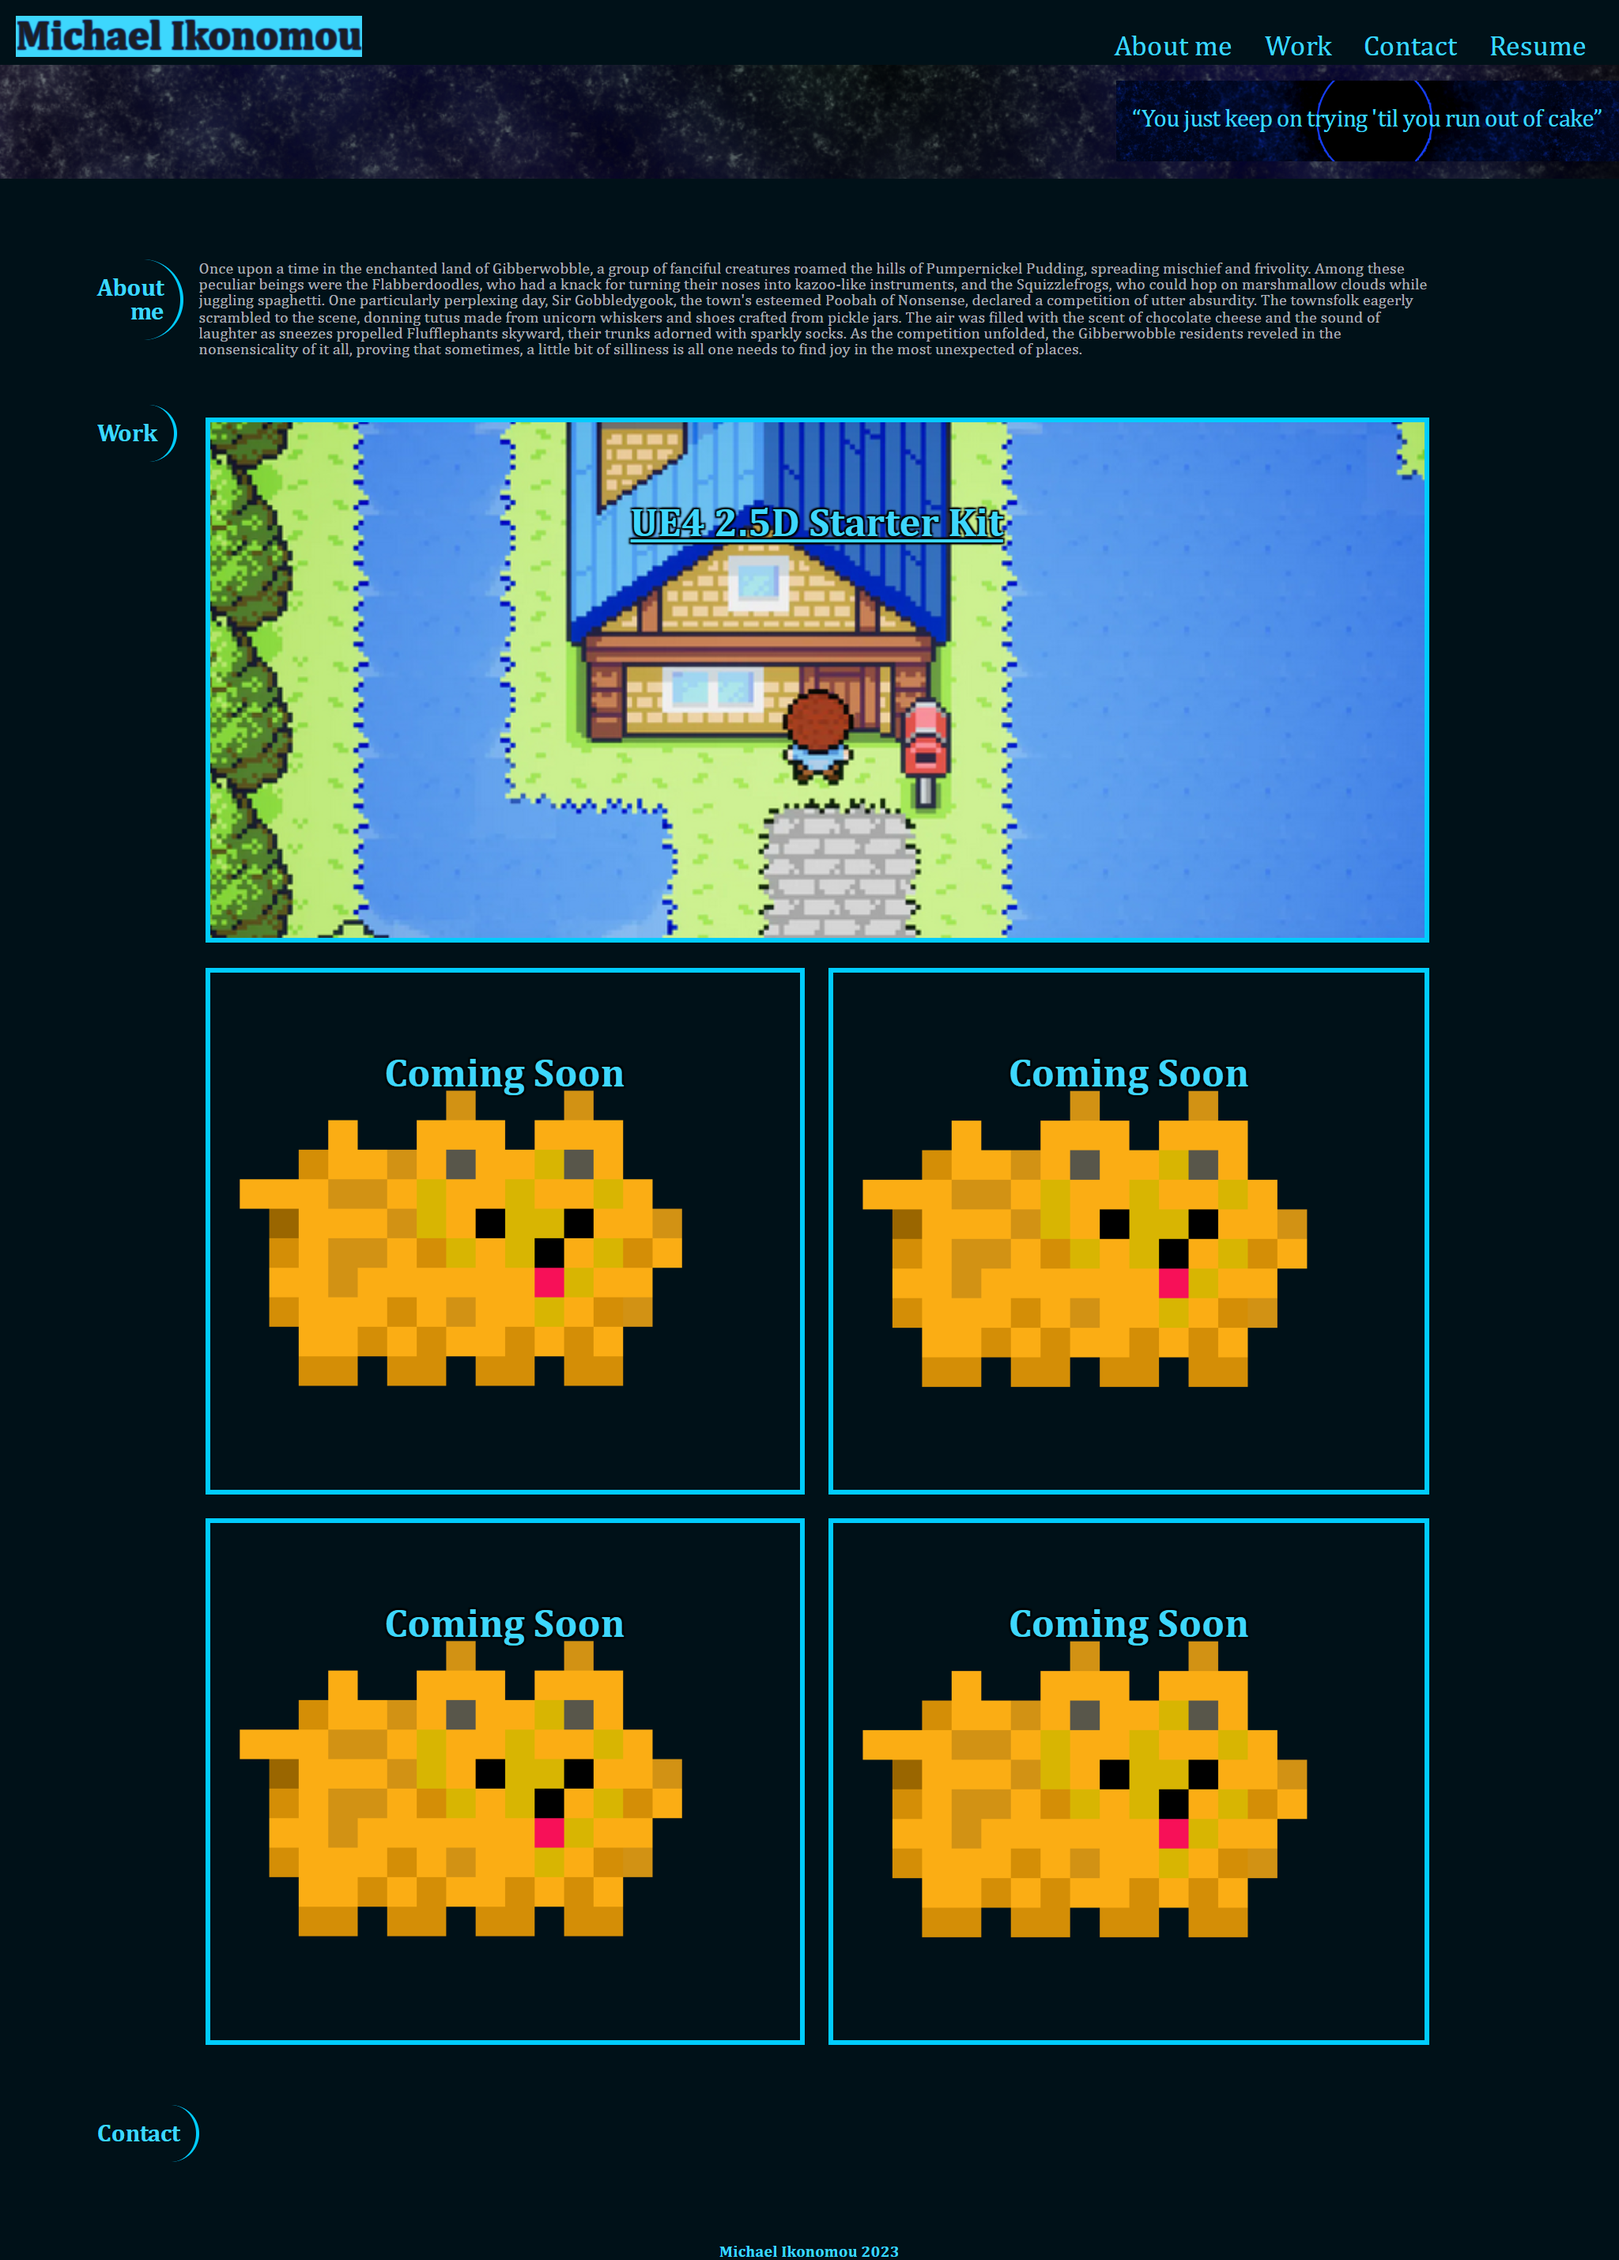
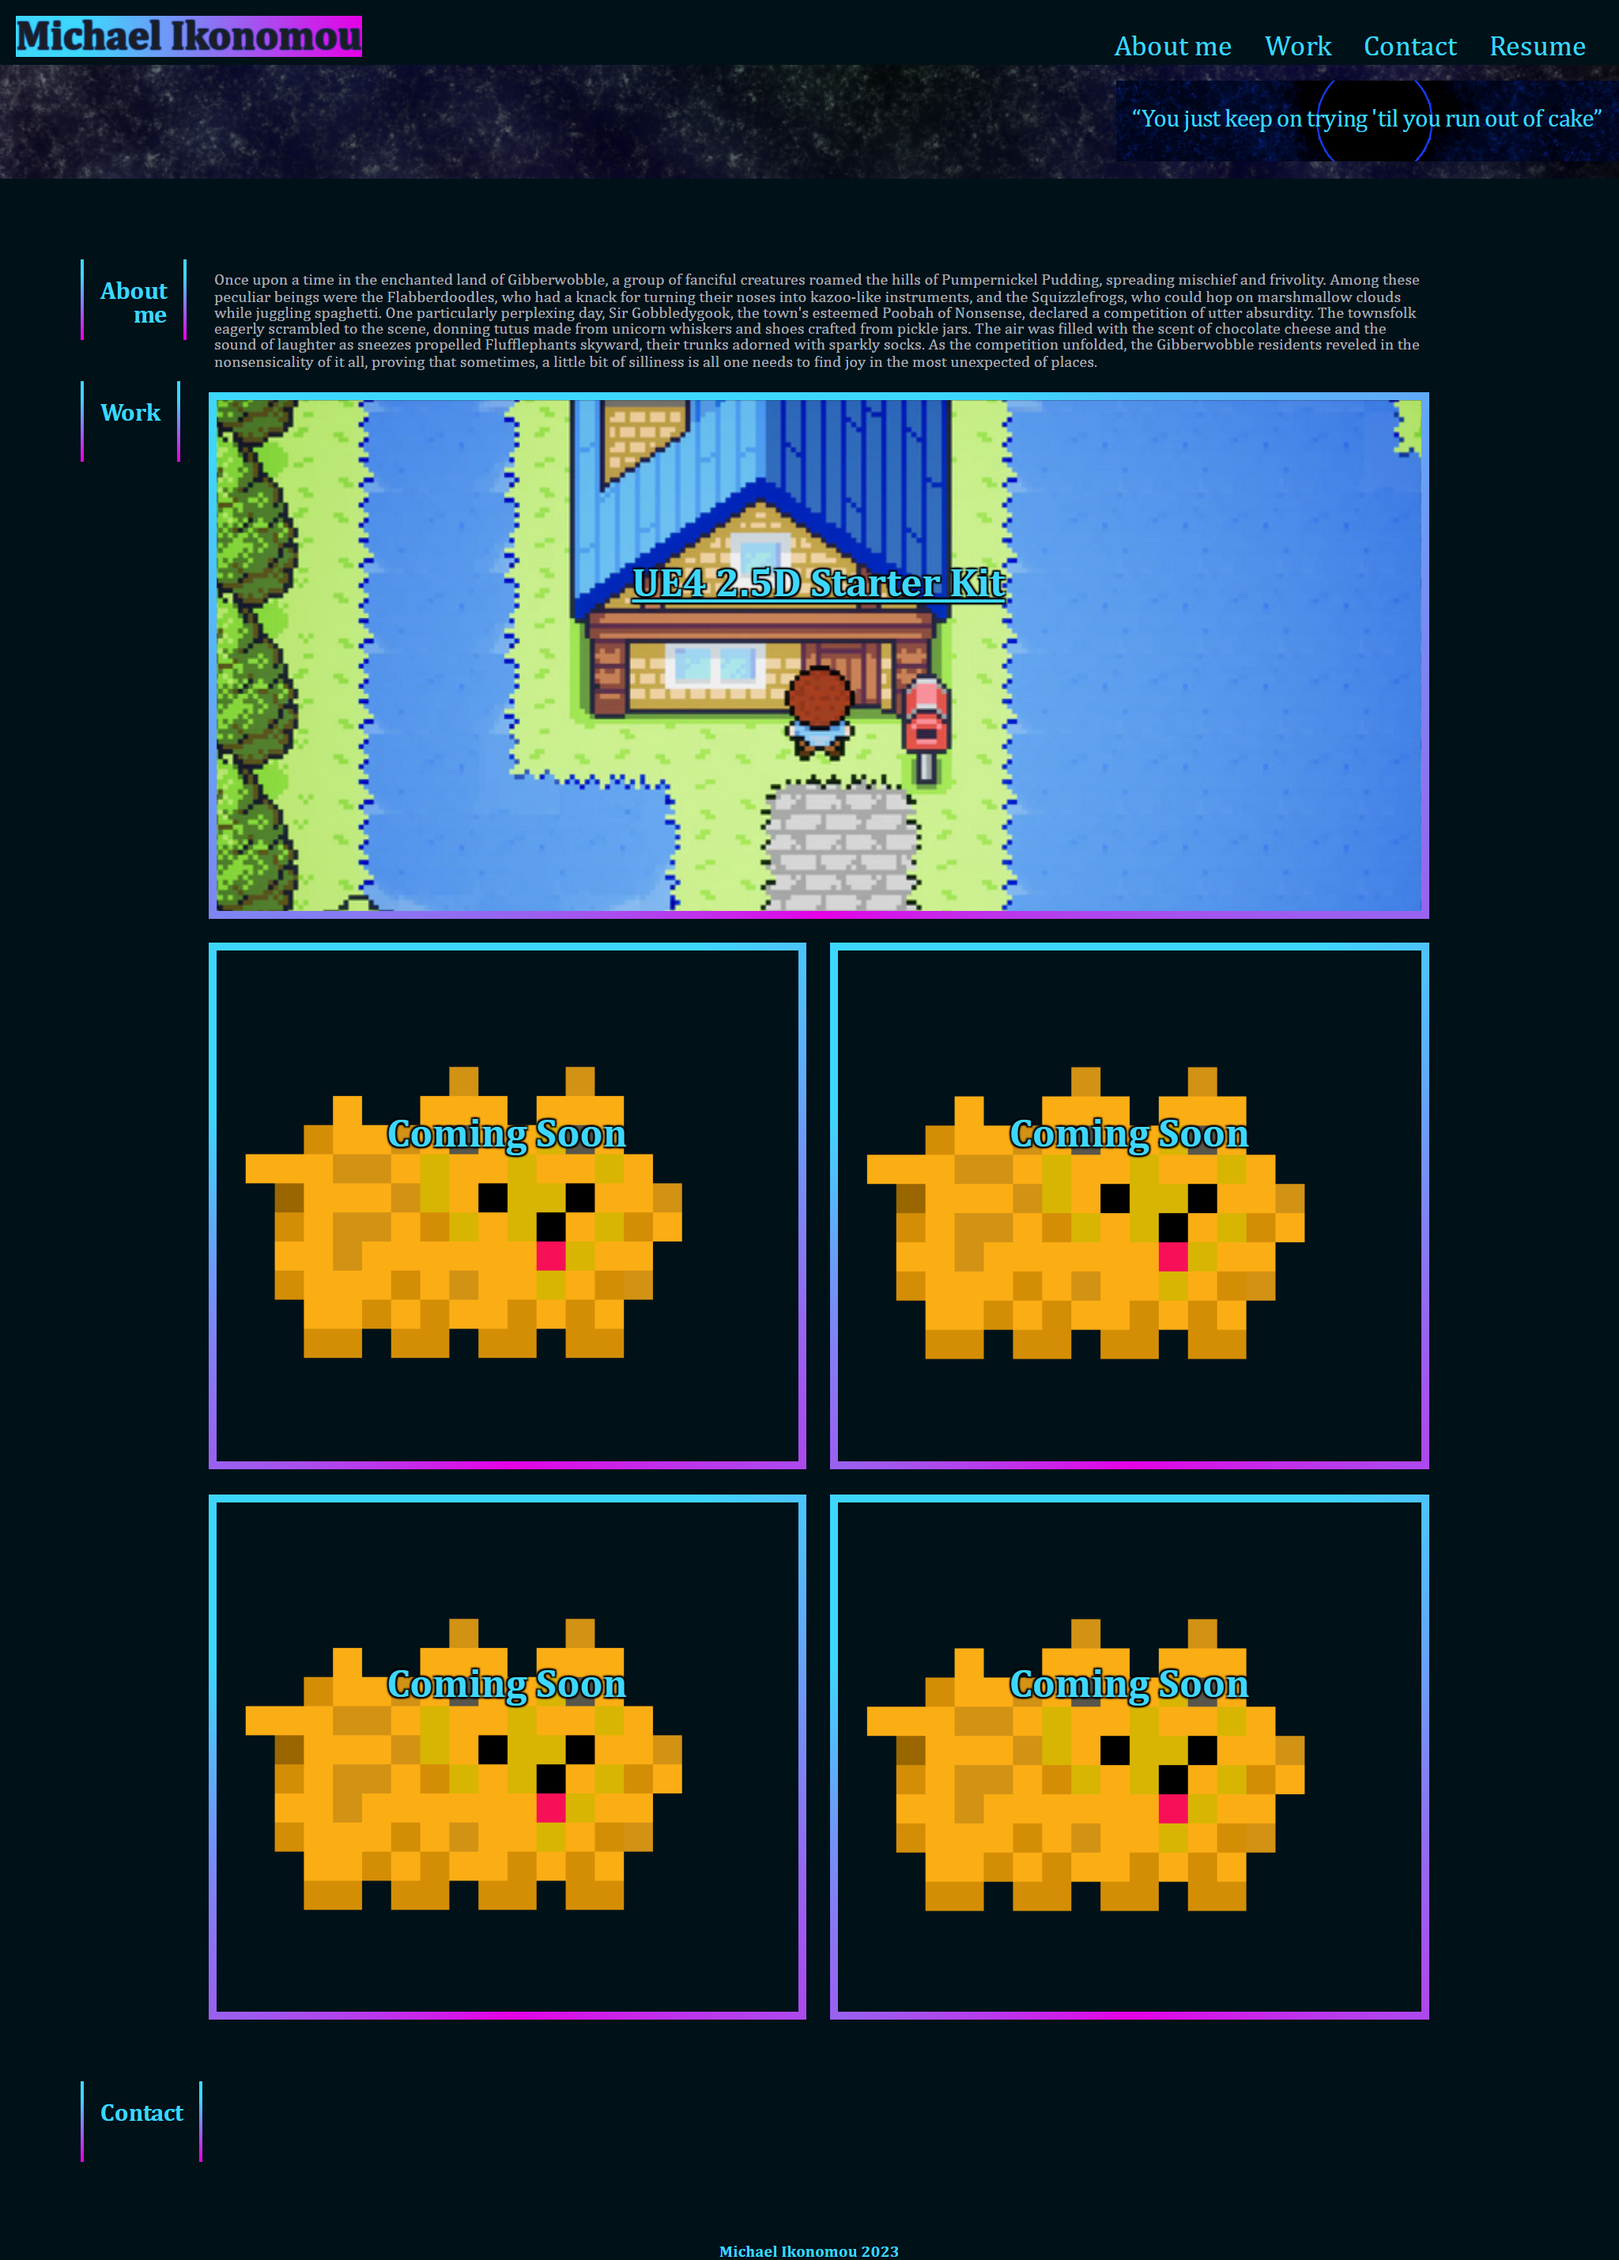
Finished gradients

Changed region(s): [[0.0625, 0.0934, 0.9062, 0.9031], [0.0625, 0.0, 0.2188, 0.0311], [0.0625, 0.9342, 0.125, 0.9654]]

diff --git a/assets/css/style.css b/assets/css/style.css
@@ -23,16 +23,18 @@ header {
     height: 4vw;
     padding: 1vw;
 }
-/* Set header1 color of text and background, relative font size, and a shadow to make it easier to look at. */
+/* Set header1 color of text and background, relative font size, and a shadow to make it easier to look at. Add a linear gradient to the background for maximum fancy */
 h1 {
     font-size: 2.5rem;
     color: var(--Dark-slate);
-    background-color: var(--easy-cyan);
     text-shadow:
     var(--shadow-negative) var(--shadow-negative) .075vw var(--blue-popsicle),  
     var(--shadow-positive) var(--shadow-negative) .075vw var(--blue-popsicle),
     var(--shadow-negative) var(--shadow-positive) .075vw var(--blue-popsicle),
     var(--shadow-positive) var(--shadow-positive) .075vw var(--blue-popsicle);
+    background-image: linear-gradient(to right, var(--easy-cyan)20%, var(--magenta-border));
+    padding-top: auto;
+    padding-bottom: auto;
 }
 
 #navbar > nav {
@@ -74,13 +76,13 @@ main {
 }
 
 .section-header {
-    padding: 0 0vw 1vw 4vw;
+    padding: 0 0 1vw 4vw;
 }
 
 article {
     display: inherit;
     flex-direction: row;
-    justify-content: space-around;
+    justify-content: flex-start;
 }
 
 article section {
@@ -90,8 +92,9 @@ article section {
 h3 {
     color: var(--easy-cyan);
     font-size: 1.5em;
-    border-right: .2vw solid var(--highlighted-cyan);
-    border-radius: 3vw;
+    border: .2vw solid transparent;
+    border-image: linear-gradient(to bottom, var(--easy-cyan)20%, var(--magenta-border)) 1 100%;
+    height: 5vw;
     padding: 1vw;
     margin-right: 1vw;
     text-align: right;
@@ -100,7 +103,7 @@ h3 {
 article p {
     color: var(--light-text);
     padding: 0 10vw 0 0vw;
-    margin-bottom: 3vw;
+    margin: .75vw;
 }
 
 #work {
@@ -118,40 +121,26 @@ article p {
 
 }
 
-.card-gradient {
-    display: flex;
-    background-clip: padding-box;
-    background: linear-gradient(var(--highlighted-cyan, var(--Dark-slate)));
-    height: 32.5vw;
-    flex-basis: calc(50% - 1.5vw);
-    margin: .75vw;
-    position: relative;
-    padding: 2vw;
-}
-
-.card-gradient:first-child{
-    background-image: url("../images/2_5D-starter-kit.png");
-    background-size:cover;
-    width: 75vw;
-    flex-basis: 100%;
-}
 .card {
     background-image: url("../images/Coming-soon.png");
     background-size: cover;
+    height: 32.5vw;
     font-size: 1rem;
     color: var(--easy-cyan);
     font-size: 2.5rem;
     font-weight: 700;
-    align-items: flex-start;
     text-shadow:
     var(--card-shadow-negative) var(--card-shadow-negative) .1vw #000,  
     var(--card-shadow-positive) var(--card-shadow-negative) .1vw #000,
     var(--card-shadow-negative) var(--card-shadow-positive) .1vw #000,
     var(--card-shadow-positive) var(--card-shadow-positive) .1vw #000;
-    border: .3vw solid transparent;
+    flex-basis: calc(50% - 1.5vw);
+    border: .5vw solid;
+    border-image:
+        conic-gradient(var(--easy-cyan)10% , var(--magenta-border)50%, var(--easy-cyan)80%) 1;
+    margin: .75vw;
     text-align: center;
-    align-items: center;
-    padding-top: 5vw;
+    padding-top: 10vw
 }
 
 .card:hover {
@@ -162,15 +151,11 @@ article p {
     opacity: 1;
 }
 
-.card {
-    flex-basis: 50%;
-}
-
 .card:first-child{
     flex-basis: 100%;
+    background-image: url("../images/2_5D-starter-kit.png");
+    background-size:cover;
 }
-
-
 
 aside .section-header{
     display: flex;
@@ -181,7 +166,6 @@ aside .section-header{
 #contact-links {
     display: none;
     padding-left: 5vw;
-
 }
 
 #contact-links a {

diff --git a/index.html b/index.html
@@ -36,21 +36,11 @@
         <nav id="work">
             <section class="section-header"><h3>Work</h3></section>
             <section id="work-cards">
-                <section class="card-gradient">
-                    <a class="card" href="https://www.unrealengine.com/marketplace/en-US/product/2-5d-starter-kit" target="_blank">UE4 2.5D Starter Kit</a>
-                </section>
-                <section class="card-gradient">
-                    <a class="card">Coming Soon</a>
-                </section>
-                <section class="card-gradient">
-                    <a class="card">Coming Soon</a>
-                </section>
-                <section class="card-gradient">
-                    <a class="card">Coming Soon</a>
-                </section>
-                <section class="card-gradient">
-                    <a class="card">Coming Soon</a>
-                </section>
+                <a class="card" href="https://www.unrealengine.com/marketplace/en-US/product/2-5d-starter-kit" target="_blank">UE4 2.5D Starter Kit</a>
+                <a class="card">Coming Soon</a>
+                <a class="card">Coming Soon</a>
+                <a class="card">Coming Soon</a>
+                <a class="card">Coming Soon</a>
             </section>
         </nav>
         <aside id="contact">

diff --git a/assets/css/root.css b/assets/css/root.css
@@ -12,7 +12,7 @@
     --original-header-color: gray;
     --original-page-color: #002a2f;
     --original-light-text: #FFFFFF; 
-    --Are-ya-yellow: #feda6a;
+    --are-ya-yellow: #feda6a;
     --Silver-Fox: #d4d4dc;
     --Deep-Matte-Grey: #393f4d;
     --Dark-slate: #1d1e22;
@@ -23,5 +23,6 @@
     --card-shadow-positive: .1vw;
     --card-shadow-negative: -.1vw;
     --card-border-size: 5px;
+    --magenta-border: #e600e6;
 }   
  /* /* colors for reference:  */
